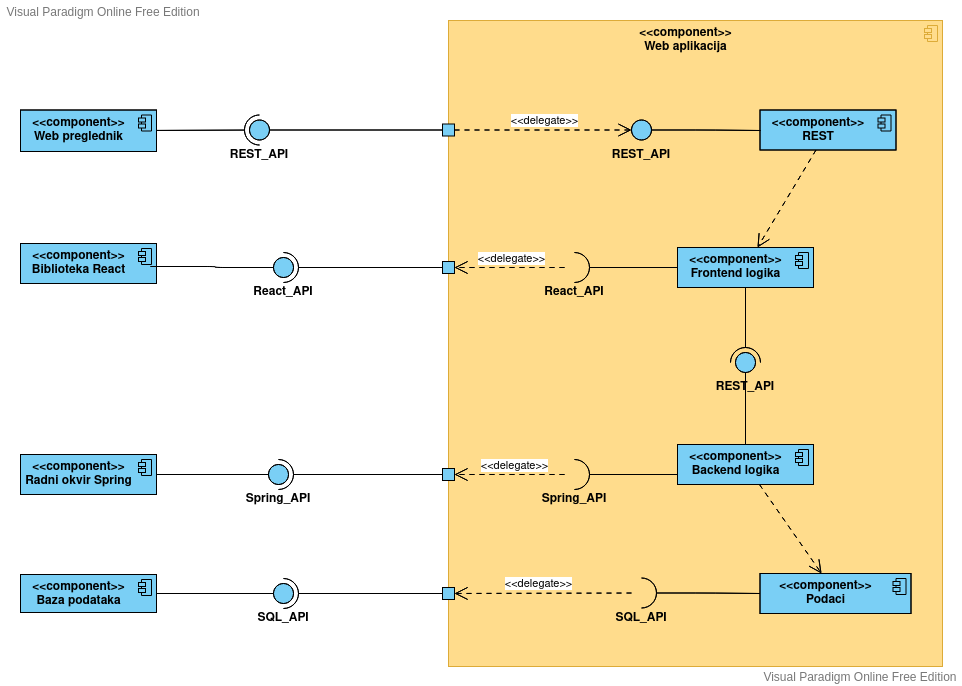
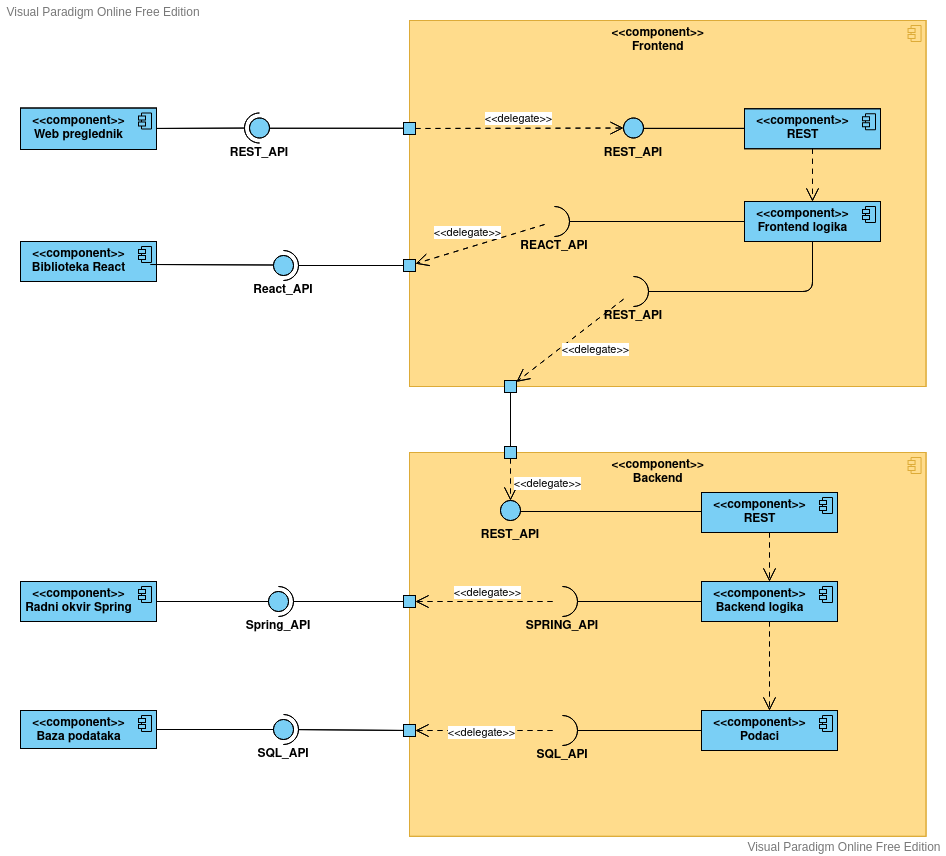
popravljeni dijagram komponenti i dijagram razmještaja, te ažurirani dnevnik promjene dokumentacije i dnevnik sastanaka

diff --git a/Dokumentacija/Arhitektura.tex b/Dokumentacija/Arhitektura.tex
@@ -353,7 +353,7 @@ Baza podataka sastoji se od deset entiteta:
 			\eject
 		\section{Dijagram komponenti}
 		
-		 Na slici 4.6 prikazan je dijagram komponenti. Korisnik iz web preglednika pristupa pristupa aplikaciji korištenjem REST API-ja. Sama aplikacija se sastoji od dva dijela. Prvi dio odgovara frontendu i izgrađen je korištenjem React biblioteke. Drugi dio odgovara backendu i izgrađen je korištenjem radnog okvira Spring. Frontend i backend komuniciraju korištenjem REST API-ja. Baza podataka je relacijska i backend joj pristupa slanjem SQL upita.
+		 Na slici 4.6 prikazan je dijagram komponenti. Korisnik iz web preglednika pristupa pristupa aplikaciji korištenjem REST API-ja. Sama aplikacija se sastoji od dvije komponente. Prva komponenta odgovara frontendu i izgrađena je korištenjem React biblioteke. Druga komponenta odgovara backendu i izgrađena je korištenjem radnog okvira Spring. Frontend i backend komuniciraju korištenjem REST API-ja. Baza podataka je relacijska i backend joj pristupa slanjem SQL upita.
 		
 			\begin{figure}[H]
 					\centering

diff --git a/Dokumentacija/Dnevnik_promjena_dokumentacije.tex b/Dokumentacija/Dnevnik_promjena_dokumentacije.tex
@@ -32,6 +32,7 @@
 			1.3 & Dodan dijagram aktivnosti.	& Mihael Miličević & 29.12.2021.	\\[3pt] \hline 
 			1.4 & Dodan dijagram stanja.	& Mihael Miličević & 29.12.2021.	\\[3pt] \hline 
 			1.5 & Dodano ispitivanje sustava.	& Mihael Miličević & 31.12.2021.	\\[3pt] \hline 
+			1.5.1 & Dodano ispitivanje komponenti.	& Danijel Barišić & 5.1.2022.	\\[3pt] \hline 
 			
 			% \textbf{1.0} & Verzija samo s bitnim dijelovima za 1. ciklus & * & 11.09.2013. \\[3pt] \hline 
 			% \textbf{2.0} & Konačni tekst predloška dokumentacije  & * & 28.09.2013. \\[3pt] \hline 

diff --git a/Dokumentacija/Dodatak.tex b/Dokumentacija/Dodatak.tex
@@ -110,6 +110,17 @@
 				\end{packed_item}
 			\end{packed_item}
 			
+			
+			\item  sastanak
+			\item[] \begin{packed_item}
+				\item Datum: 1.1.2022.
+				\item Prisustvovali: Andrija Banić, Danijel Barišić, Danko Čurlin, Bartol Hrg, Mihael Miličević, Dario Pavlović, Tomislav Žiger
+				\item Teme sastanka:
+				\begin{packed_item}
+					\item  rasprava o aktivnostima na projektu i zadacima do konačne predaje projekta
+				\end{packed_item}
+			\end{packed_item}
+			
 			%
 			
 		\end{packed_enum}

diff --git a/Dokumentacija/PROGI_ProjektnaDokumentacija.tex b/Dokumentacija/PROGI_ProjektnaDokumentacija.tex
@@ -99,7 +99,7 @@
 			\vspace*{\stretch{3.0}}
 			
 			\huge Moj Kvart\\
-			\Large Dokumentacija, Rev. \textit{1}\\
+			\Large Dokumentacija, Rev. \textit{2}\\
 			
 			\vspace*{\stretch{12.0}}
 			\normalsize
@@ -108,7 +108,7 @@
 			
 			
 			\vspace*{\stretch{1.0}}
-			Datum predaje: \textit{19.11.2021.}\\
+			Datum predaje: \textit{14.1.2022.}\\
 	
 			\vspace*{\stretch{4.0}}
 			
